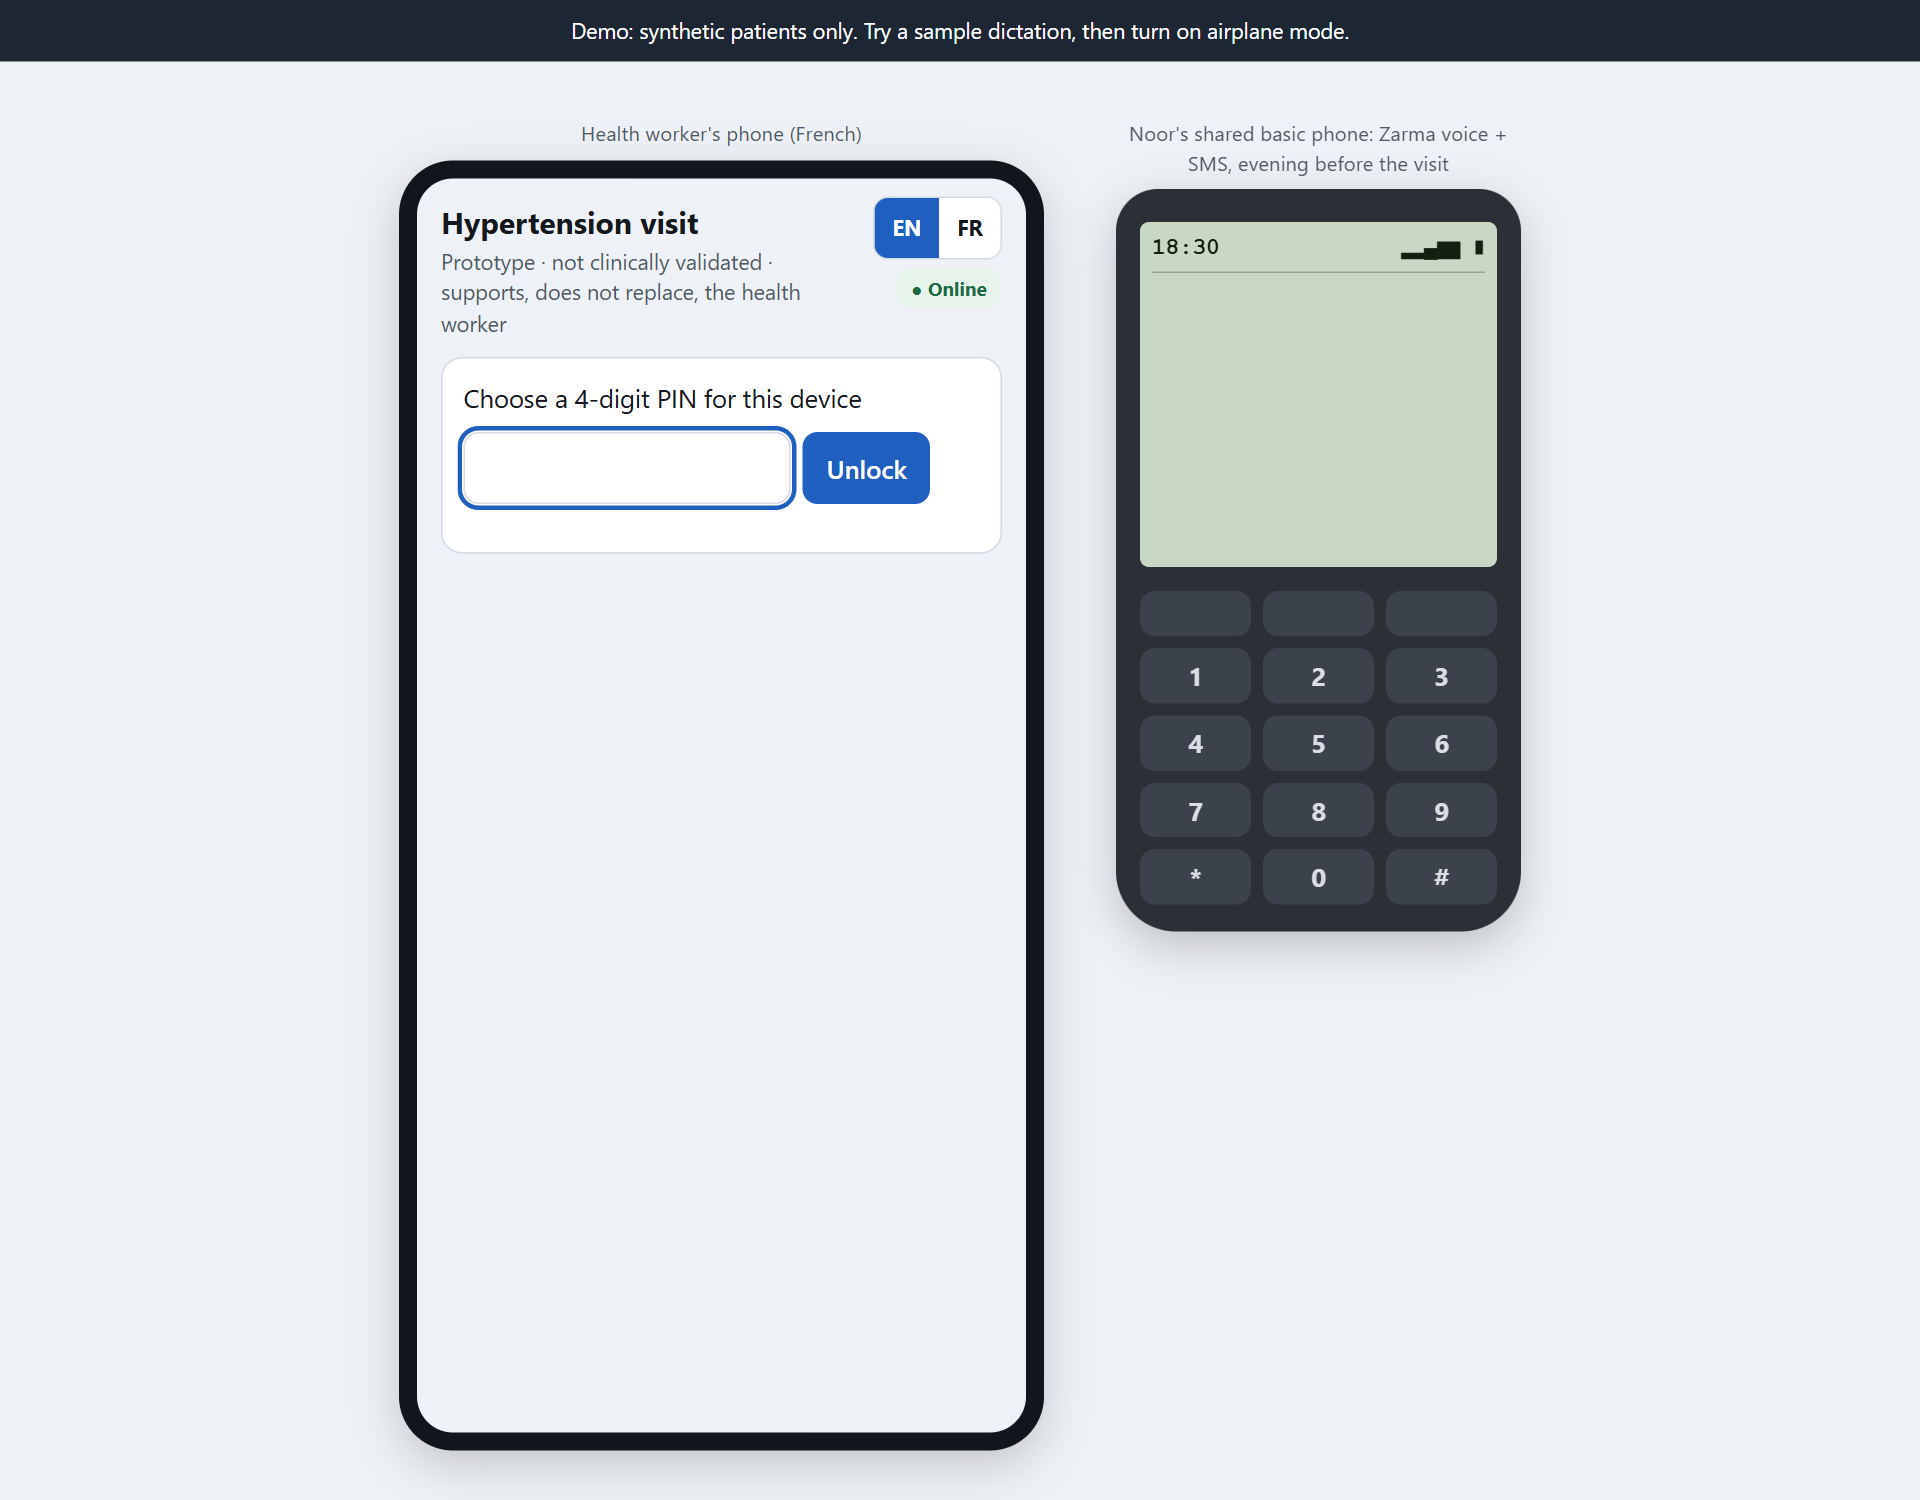
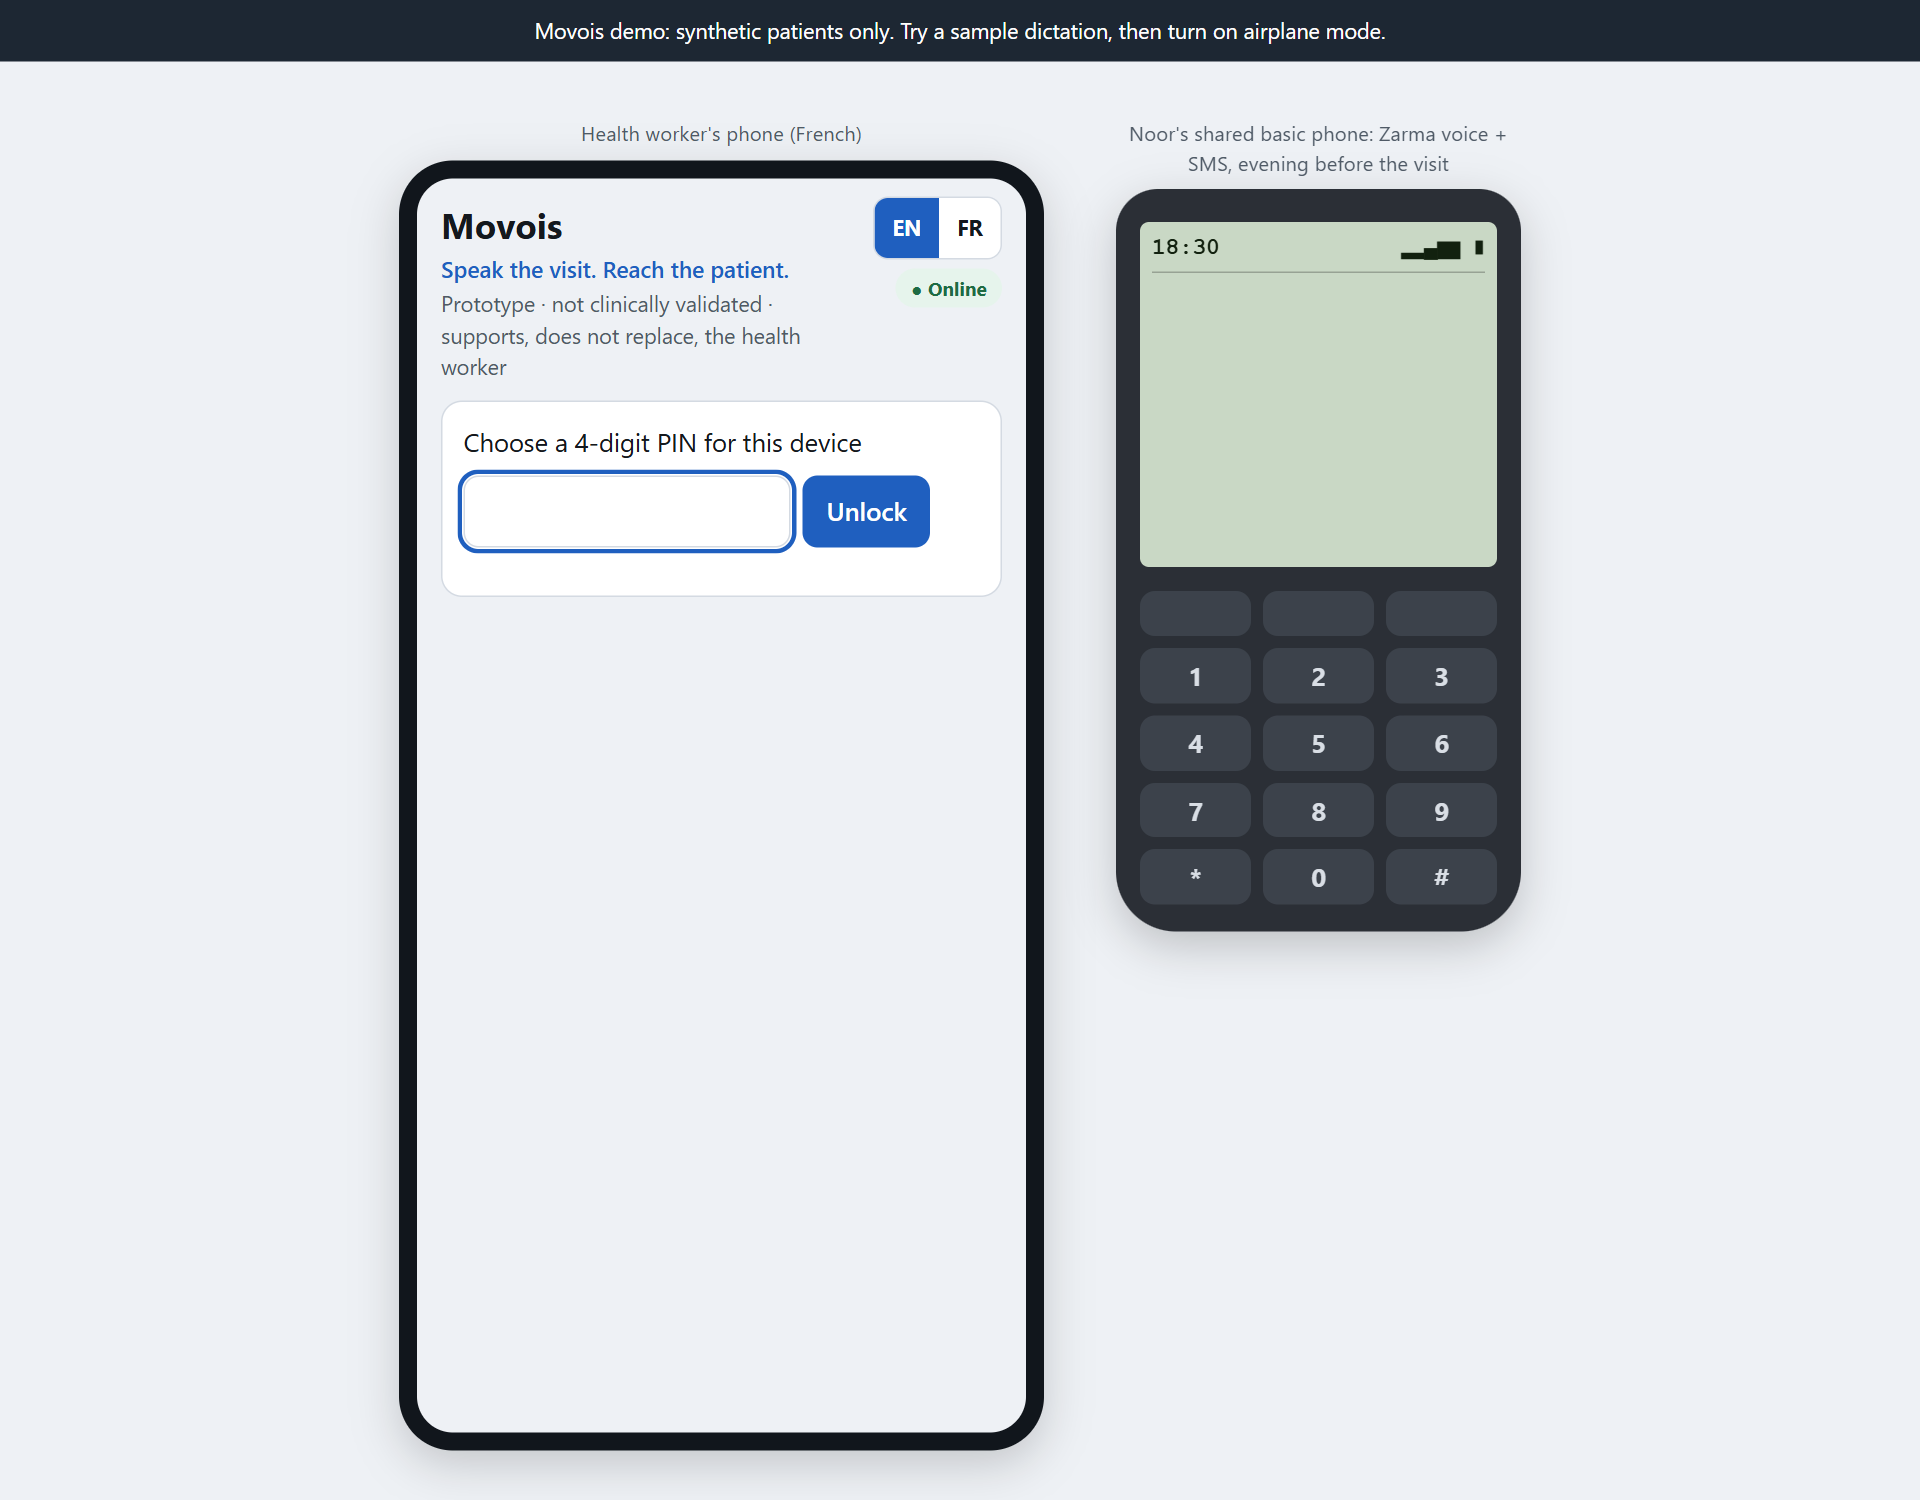
Rebrand to Movois (médecine + voix): 'Speak the visit. Reach the patient.'
App title/header/tagline, PWA manifest, banners, README/Walkthrough/docs, screenshots. Repo and Pages URL
unchanged. Also fix: service worker no longer deletes the on-device speech-model cache on update.

Changed region(s): [[0.2188, 0.1227, 0.5, 0.368], [0.2812, 0.0, 0.7188, 0.0307]]

diff --git a/app/web/sw.js b/app/web/sw.js
@@ -1,6 +1,6 @@
 // Service worker: precache the app shell, then serve same-origin GETs cache-first and refresh in the
 // background (stale-while-revalidate). After one visit the app works in airplane mode.
-const CACHE = "htn-v16";
+const CACHE = "movois-v17";
 const SHELL = [
   "./", "index.html", "styles.css", "app.js", "manifest.webmanifest", "icon.svg", "config.json",
   "engine/i18n.js", "engine/extractor.js", "engine/rules.js", "engine/store.js", "engine/pin.js",
@@ -11,13 +11,18 @@ const SHELL = [
   ...["intro", "mon", "tue", "wed", "thu", "fri", "sat", "sun", "clinic", "refill"].map(c => `audio/dje/${c}.mp3`),
 ];
 
+// Only our own old app-shell caches ("htn-v15", "movois-v16"...). Kept on one line: tests/unit/sw.test.mjs reads it.
+const isOldAppCache = k => k !== CACHE && /^(htn|movois)-v\d+$/.test(k);
+
 self.addEventListener("install", e => {
   e.waitUntil(caches.open(CACHE).then(c => c.addAll(SHELL)).then(() => self.skipWaiting()));
 });
 
 self.addEventListener("activate", e => {
   e.waitUntil(caches.keys()
-    .then(keys => Promise.all(keys.filter(k => k !== CACHE).map(k => caches.delete(k))))
+    // Delete only OUR old app-shell caches. Never touch other caches, e.g. the browser's cache of the
+    // 79 MB on-device speech model: wiping it on every update would break offline dictation.
+    .then(keys => Promise.all(keys.filter(isOldAppCache).map(k => caches.delete(k))))
     .then(() => self.clients.claim()));
 });
 

diff --git a/app/web/index.html b/app/web/index.html
@@ -4,7 +4,7 @@
 <meta charset="utf-8">
 <meta name="viewport" content="width=device-width, initial-scale=1">
 <meta name="theme-color" content="#1f5fbf">
-<title>HTN Visit Recorder</title>
+<title>Movois</title>
 <link rel="manifest" href="manifest.webmanifest">
 <link rel="icon" href="icon.svg" type="image/svg+xml">
 <!-- No external resources: everything is same-origin so the service worker can serve it offline. -->
@@ -20,7 +20,8 @@
     <main class="screen">
       <header class="topbar">
         <div>
-          <h1 id="title"></h1>
+          <h1 id="title" class="brand"></h1>
+          <div id="tagline" class="tagline"></div>
           <div id="disclaimer" class="sub"></div>
         </div>
         <div class="right">

diff --git a/app/web/styles.css b/app/web/styles.css
@@ -140,3 +140,5 @@ details summary { cursor: pointer; font-weight: 600; padding: 10px 0; min-height
 mark.lowconf { background: transparent; color: inherit; text-decoration: underline dotted 2px var(--checkBorder); text-underline-offset: 3px; }
 .meter { height: 8px; background: var(--infoBg); border: 1px solid var(--line); border-radius: 99px; overflow: hidden; margin-top: 8px; }
 .meter span { display: block; height: 100%; width: 0; background: var(--ok); transition: width .08s linear; }
+.brand { font-size: 1.45rem; letter-spacing: .01em; }
+.tagline { font-weight: 600; color: var(--accent); font-size: .95rem; margin-bottom: 2px; }

diff --git a/app/web/app.js b/app/web/app.js
@@ -27,7 +27,9 @@ function paintText() {
     return b;
   }));
   $("banner").textContent = t("banner");
-  $("title").textContent = t("app.title");
+  $("title").textContent = t("app.name"); // brand: Movois (médecine + voix)
+  $("tagline").textContent = t("app.tagline");
+  document.title = `${t("app.name")}: ${t("app.tagline")}`;
   $("step1Title").textContent = t("step1.title");
   $("step2Title").textContent = t("step2.title");
   $("step3Title").textContent = t("step3.title");

diff --git a/Walkthrough.md b/Walkthrough.md
@@ -1,7 +1,10 @@
-# Walkthrough: an offline voice-to-record assistant for hypertension care in rural Niger
+# Walkthrough: Movois, an offline voice-to-record assistant for hypertension care in rural Niger
 
-This document explains a prototype built in one weekend for the World Bank Group "Small AI for
-Development" hackathon (Health category), 3–4 October 2026. It covers the problem, what the tool
+*Speak the visit. Reach the patient.* The name Movois joins two French words: médecine (medicine)
+and voix (voice).
+
+This document explains Movois, a prototype built in one weekend for the World Bank Group "Small AI for
+Development" hackathon (Health category), 3–4 October 2026. It covers the problem, what Movois
 does, how it works, how it was built step by step, how well it performs, and what it does not yet
 do. Every number in this document was measured on the prototype. Every patient and every test voice
 is synthetic. No real patient data was used.
@@ -12,7 +15,7 @@ Live demo: https://bixzare.github.io/Hack-nation-7th-Global-AI-Hackathon-WBG-Sma
 
 ## 1. The idea in one paragraph
 
-A nurse at a rural health centre in Niger measures a patient's blood pressure and dictates a short
+With Movois, a nurse at a rural health centre in Niger measures a patient's blood pressure and dictates a short
 note in French, the way clinicians already talk. A small speech model running on the health centre's
 own laptop turns the voice into text, without internet. A tiny rule engine running in the browser
 then fills a fixed hypertension record and checks it against the World Health Organization's HEARTS
@@ -97,7 +100,7 @@ open-source Whisper model, in its "small" size, running through a library called
 runs entirely on the health centre's laptop: the audio never leaves the machine, and no internet is
 needed. A smaller version, Whisper "base", is the fallback for weaker laptops.
 
-**Two ways to dictate.** The tool has two speech modes and picks one automatically.
+**Two ways to dictate.** Movois has two speech modes and picks one automatically.
 
 - **Clinic laptop, recommended.** At the health centre, a laptop runs the larger Whisper "small" model
   as a local service. This is the most accurate setup: on the frozen test it got 95.4 percent of
@@ -149,7 +152,7 @@ browser.
 
 ---
 
-## 5. What the AI does, and why a simpler tool would not do
+## 5. What the AI in Movois does, and why a simpler tool would not do
 
 A paper form or a spreadsheet could hold the same fields. But filling in the form is exactly the
 burden the challenge describes, and it takes time away from the patient. Earlier mobile-health
@@ -429,5 +432,6 @@ AI becomes useful where it is needed most.
   signal.
 - **Human in the loop:** nothing is saved without the nurse's confirmation; uncertainty is always
   shown.
+- **Name:** Movois (médecine + voix). Tagline: "Speak the visit. Reach the patient."
 - **Status:** a prototype, not clinically validated, built to support health workers, not replace
   them.

diff --git a/README.md b/README.md
@@ -1,17 +1,22 @@
-# HTN Visit Recorder: offline voice-to-record for hypertension care in rural Niger
+# Movois — offline voice-to-record for hypertension care in Niger
+
+***Speak the visit. Reach the patient.***
+
+Movois lets a nurse in rural Niger record a hypertension visit just by speaking, offline, and reaches the
+patient at home with a reminder in Zarma.
 
 **Live demo:** https://bixzare.github.io/Hack-nation-7th-Global-AI-Hackathon-WBG-Small-AI-Health/
 
-A nurse dictates a short French note; small, offline AI turns it into a WHO-HEARTS-checked hypertension
-record; the nurse approves it; and the patient hears her next visit announced in **Zarma**, by voice, the
-evening before.
+*Movois = médecine + voix.* A nurse dictates a short French note; small, offline AI turns it into a
+WHO-HEARTS-checked hypertension record; the nurse approves it; and the patient hears her next visit
+announced in **Zarma**, by voice, the evening before.
 
 World Bank Group × Hack-Nation, *Small AI for Development*, Health. **Prototype, not clinically
 validated. It supports health workers and does not replace them. All patients and all test voices are
 synthetic.**
 
 ## Try it in 3 steps (about 2 minutes)
-The interface opens in English; use **EN | FR** at the top to switch. Dictation stays French. On a wide
+Movois opens in English; use **EN | FR** at the top to switch. Dictation stays French. On a wide
 screen the nurse's phone is on the left and Noor's basic phone on the right.
 
 1. **Load a sample dictation.** Choose any 4-digit PIN, open *Sample dictations* and pick one, for
@@ -75,7 +80,7 @@ nurse dictates (French)
   Every output is from a fixed list: fields, values, flags, SMS template, and voice clips.
 
 ## Two speech modes
-The app picks the speech path automatically: the clinic's local Whisper service when the page runs on
+Movois picks the speech path automatically: the clinic's local Whisper service when the page runs on
 the health-centre laptop, otherwise on-device speech in the browser. Typing and the sample dictations
 always work.
 
@@ -153,8 +158,8 @@ the 4 hosted samples.
 - **Clinic conditions:** real clinic noise and real clinician phrasing are untested.
 - **Visit types:** non-hypertension visits are out of scope.
 
-## How the tool shows uncertainty
-The tool never fills a field silently from something it is unsure of. A field is marked **please check**
+## How Movois shows uncertainty
+Movois never fills a field silently from something it is unsure of. A field is marked **please check**
 when any of these hold:
 
 | Signal | Example | Where |

diff --git a/docs/log.md b/docs/log.md
@@ -490,6 +490,19 @@ local + live GitHub Pages + real-mic.
   on-device please-check rule (3). Manual checks: `tests/helpers/ondevice_check.mjs`,
   `ondevice_offline_check.mjs`.
 
+
+## Rebrand to Movois (Sun 12:16)
+- **Product name: Movois** (médecine + voix). Tagline: "Speak the visit. Reach the patient." Repo name
+  and Pages URL unchanged.
+- **App:** page title, header (brand + tagline, same in EN/FR; French tagline NEEDS-NATIVE-CHECK), PWA
+  manifest name / short_name, demo banners. Patient SMS / Zarma clips unchanged (no brand on the shared
+  phone).
+- **Docs:** README title, tagline and pitch; Walkthrough; brief; QA phrases; screenshots regenerated.
+- **Bug fixed along the way:** the service worker deleted EVERY other cache on update, including the
+  browser's 79 MB on-device speech-model cache. Each deploy would have silently broken offline dictation
+  until a re-download. It now deletes only its own old shell caches (`isOldAppCache`, unit-tested).
+- **Tests:** local 210/211 (1 todo).
+
 ## Small AI audit (Sun, `ml/measure.py`, frozen test split)
 **Checklist**
 - ✅ No runtime cloud AI. Every `fetch` targets the same origin (app files, served by the SW) or the

diff --git a/docs/QA-phrases.md b/docs/QA-phrases.md
@@ -1,4 +1,4 @@
-# Demo QA phrases: record these in your own voice
+# Movois demo QA phrases: record these in your own voice
 
 These are the phrases the QA suite uses (`tests/qa/demo_phrases.json`). Expectations are the clinically
 correct record and WHO HEARTS flags, reviewed by hand. All patients are synthetic.

diff --git a/docs/brief.md b/docs/brief.md
@@ -1,4 +1,6 @@
-# Brief
+# Brief: Movois
+
+*Speak the visit. Reach the patient.* Product name: **Movois** (médecine + voix).
 
 Source: `docs/challenge-brief.pdf` (WBG × Hack-Nation, Small AI for Development, Annex A: Health;
 gitignored because it is marked "Official Use Only").
